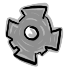
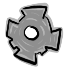
Moví el botón play

Changed region(s): [[0.3429, 0.3714, 0.5429, 0.5429]]

diff --git a/core/src/mx/e5/madmom/PantallaMenu.java b/core/src/mx/e5/madmom/PantallaMenu.java
@@ -60,7 +60,7 @@ public class PantallaMenu extends Pantalla
         //Botón play
         TextureRegionDrawable trdBtnPlay = new TextureRegionDrawable(new TextureRegion(texturaBtnPlayMenu));
         ImageButton btnPlay = new ImageButton(trdBtnPlay);
-        btnPlay.setPosition(ANCHO/2-btnPlay.getWidth()/2, 3*btnPlay.getHeight()/4);
+        btnPlay.setPosition(ANCHO/2-btnPlay.getWidth()/2, 8*btnPlay.getHeight()/4);
         escenaMenu.addActor(btnPlay);
         // Acción botón play
         btnPlay.addListener(new ClickListener(){
